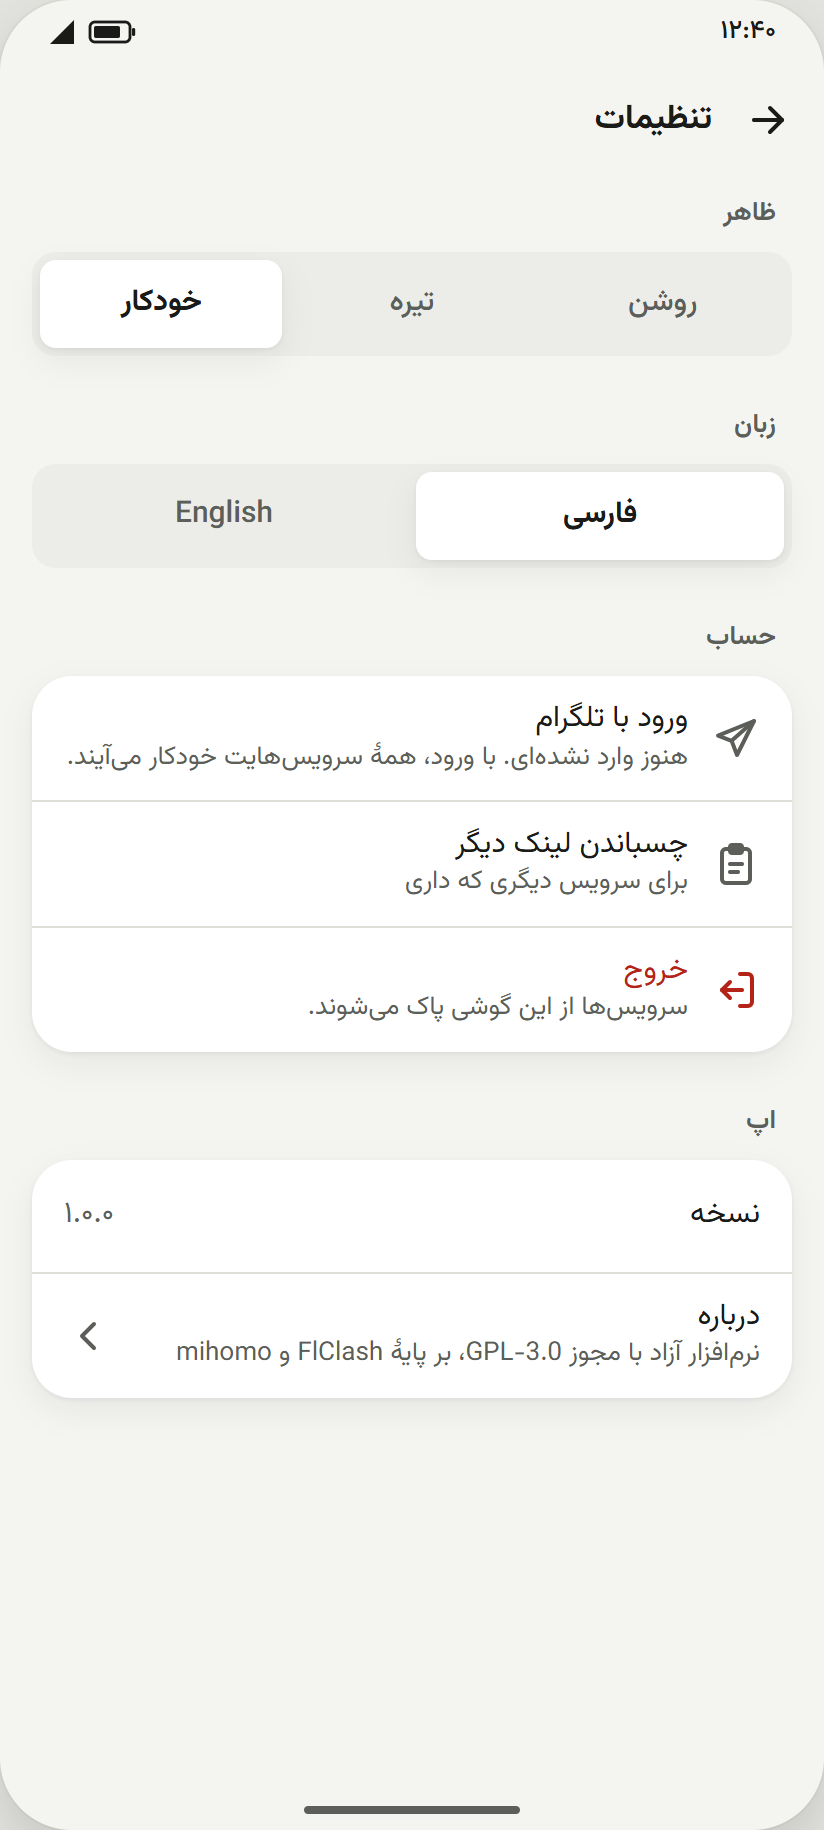
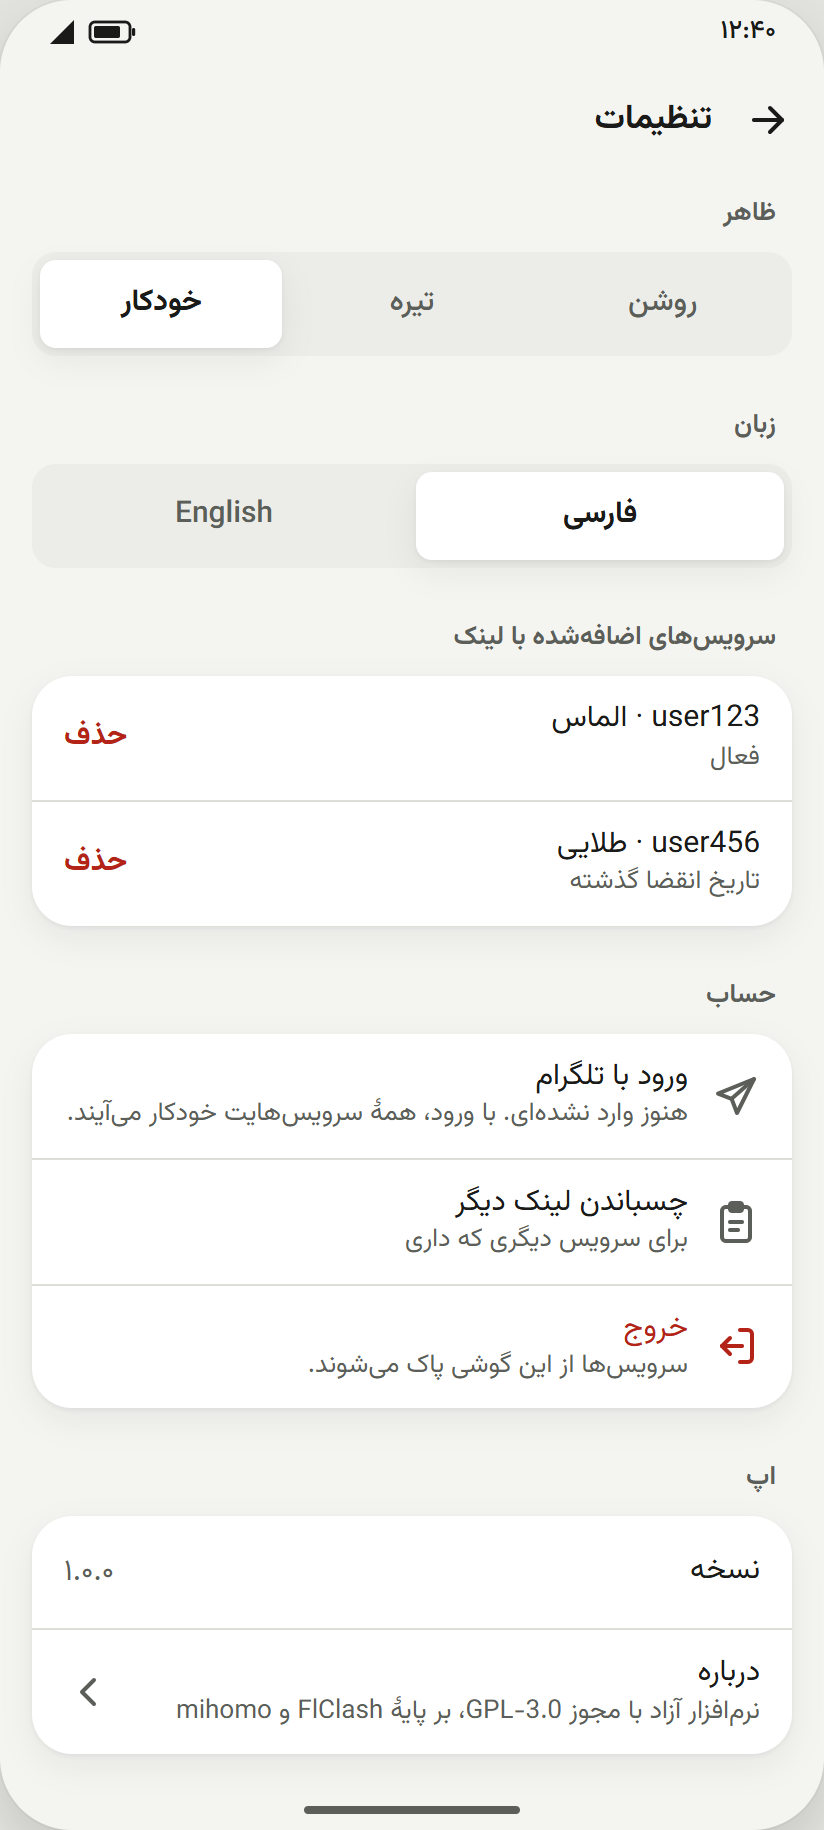
docs(design): let the phone remove one pasted service
A customer who pasted an old, expired or wrong ShikooNet link could only
drop it with "Sign out", which removes every service. Settings now lists
the services whose only source is a pasted link, each with a Remove
button and a confirm dialog. Services the Telegram account also brings
are not listed, since the next sync would bring them back.

Removing the connected service disconnects, removes it and selects the
next service without reconnecting; removing the last one returns to the
no-service home. The strings are in remove_service_*.arb.

diff --git a/design/mockups/phone-states.html b/design/mockups/phone-states.html
@@ -15,7 +15,7 @@
 
 <header class="sheet-head">
   <h1>شیکونت · حالتهای گوشی</h1>
-  <p>اتصال و خطا، سرویسِ تمامشده، فهرست بلند، خروج، ورود و چسباندن لینک، و انواع کارت سرویس.</p>
+  <p>اتصال و خطا، سرویسِ تمامشده، فهرست بلند، خروج و حذف یک سرویس، ورود و چسباندن لینک، و انواع کارت سرویس.</p>
   <nav class="sheet-nav">
     <a href="phone.html">گوشی</a>
     <a href="phone-states.html" aria-current="page">حالتهای گوشی</a>
@@ -354,6 +354,19 @@
           </div>
         </section>
         <section>
+          <h3 class="group-title">سرویسهای اضافهشده با لینک</h3>
+          <div class="card">
+            <div class="row">
+              <span class="t"><span><bdi dir="ltr">user123</bdi> · الماس</span><small>فعال</small></span>
+              <button class="btn btn-text danger" type="button" aria-label="حذف user123 · الماس">حذف</button>
+            </div>
+            <div class="row">
+              <span class="t"><span><bdi dir="ltr">user456</bdi> · طلایی</span><small>تاریخ انقضا گذشته</small></span>
+              <button class="btn btn-text danger" type="button" aria-label="حذف user456 · طلایی">حذف</button>
+            </div>
+          </div>
+        </section>
+        <section>
           <h3 class="group-title">حساب</h3>
           <div class="card">
             <button class="row" type="button">
@@ -387,6 +400,95 @@
     <p class="note"><b>پیشنهاد</b>«چسباندن لینک دیگر» برای کسی است که بیش از یک سرویس دارد و هنوز نمیتواند با تلگرام وارد شود؛ خانه دکمهٔ افزودن ندارد. بعد از ورود تلگرامی این ردیف میرود.</p>
     <p class="note"><b>پیشنهاد</b>بعد از ورود با تلگرام، سرویسهای چسباندهشده میمانند و سرویسهای حساب کنارشان میآیند؛ سرویسِ تکراری یکی میشود. این برای مشتری نماینده مهم است که لینکش شاید به حساب تلگرامش وصل نباشد.</p>
     <p class="note">تلویزیون چسباندن ندارد. فقط تا ساخته شدنِ ورود تلگرامی حالتی شبیه این دارد: قاب «تنظیمات · پیش از ساخته شدنِ ورود تلگرامی» در حالتهای تلویزیون.</p>
+    <p class="note">حذف یک سرویس فقط از بخش «سرویسهای اضافهشده با لینک» است، نه از خودِ کارت. سربرگ کارت جای دکمهٔ سوم ندارد: با «⋯» نامِ همان سرویسهای تمامشده که بیشتر حذف میشوند بریده میشد، و کارت گوشی دیگر با کارت تلویزیون یکی نبود. اینجا افزودن و حذف یکجا هستند.</p>
+    <p class="note">در این بخش فقط سرویسی هست که تنها راه آمدنش به این گوشی، لینکِ چسباندهشده است. سرویسی که حساب تلگرام هم میآوردش (همان نام کاربری) اینجا نیست، چون همگامسازیِ بعدی برش میگرداند. بعد از ورود تلگرامی هم این بخش برای سرویسهایی که فقط لینک دارند میماند. اگر چنین سرویسی نیست، کل بخش نیست.</p>
+    <p class="note">ردیفها به ترتیب کارتهای خانهاند. خط دوم همان برچسب کارت است («فعال»، «تاریخ انقضا گذشته»، …) تا سرویسِ کهنه پیدا شود. فقط «حذف» کار میکند، نه خودِ ردیف، تا اسکرول کردن پنجرهای باز نکند. «حذف» دستکم ۴۸ در ۴۸ لمس میگیرد و خوانندهٔ صفحه آن را با نام سرویس میخواند.</p>
+    <p class="note">وصل بودن چیزی را غیرفعال نمیکند: سرویسِ وصل هم حذف میشود (قاب بعدی). فقط وقتی «چسباندن لینک دیگر» در حال بررسی لینک است، دکمههای «حذف» غیرفعالاند، چون شاید لینکِ تازه مال همان سرویس باشد.</p>
+  </figure>
+
+  <!-- حذف یک سرویس که الان وصل است -->
+  <figure class="shot">
+    <figcaption>تنظیمات · حذف سرویسی که الان وصل است</figcaption>
+    <div class="phone" data-frame="phone-remove-confirm">
+      <div class="statusbar"><span>۱۲:۴۰</span><svg><use href="#sb"/></svg></div>
+      <div class="appbar sub">
+        <button class="icon-btn" type="button" aria-label="بازگشت"><svg class="icon"><use href="#i-back"/></svg></button>
+        <h2>تنظیمات</h2>
+      </div>
+      <div class="settings">
+        <section>
+          <h3 class="group-title">ظاهر</h3>
+          <div class="segmented" role="radiogroup">
+            <button type="button" role="radio" aria-checked="false">روشن</button>
+            <button type="button" role="radio" aria-checked="false">تیره</button>
+            <button type="button" role="radio" aria-checked="true">خودکار</button>
+          </div>
+        </section>
+        <section>
+          <h3 class="group-title">زبان</h3>
+          <div class="segmented" role="radiogroup">
+            <button type="button" role="radio" aria-checked="true">فارسی</button>
+            <button type="button" role="radio" aria-checked="false" lang="en">English</button>
+          </div>
+        </section>
+        <section>
+          <h3 class="group-title">سرویسهای اضافهشده با لینک</h3>
+          <div class="card">
+            <div class="row">
+              <span class="t"><span><bdi dir="ltr">user123</bdi> · الماس</span><small>فعال</small></span>
+              <button class="btn btn-text danger" type="button" aria-label="حذف user123 · الماس">حذف</button>
+            </div>
+            <div class="row">
+              <span class="t"><span><bdi dir="ltr">user456</bdi> · طلایی</span><small>تاریخ انقضا گذشته</small></span>
+              <button class="btn btn-text danger" type="button" aria-label="حذف user456 · طلایی">حذف</button>
+            </div>
+          </div>
+        </section>
+        <section>
+          <h3 class="group-title">حساب</h3>
+          <div class="card">
+            <button class="row" type="button">
+              <svg class="icon"><use href="#i-plane"/></svg>
+              <span class="t"><span>ورود با تلگرام</span><small>هنوز وارد نشدهای. با ورود، همهٔ سرویسهایت خودکار میآیند.</small></span>
+            </button>
+            <button class="row" type="button">
+              <svg class="icon"><use href="#i-paste"/></svg>
+              <span class="t"><span>چسباندن لینک دیگر</span><small>برای سرویس دیگری که داری</small></span>
+            </button>
+            <button class="row danger" type="button">
+              <svg class="icon"><use href="#i-logout"/></svg>
+              <span class="t"><span>خروج</span><small>سرویسها از این گوشی پاک میشوند.</small></span>
+            </button>
+          </div>
+        </section>
+        <section>
+          <h3 class="group-title">اپ</h3>
+          <div class="card">
+            <div class="row"><span class="t"><span>نسخه</span></span><span class="value">۱.۰.۰</span></div>
+            <button class="row" type="button">
+              <span class="t"><span>درباره</span><small>نرمافزار آزاد با مجوز <bdi>GPL-3.0</bdi>، بر پایهٔ <bdi>FlClash</bdi> و <bdi>mihomo</bdi></small></span>
+              <svg class="icon"><use href="#i-chevron-fwd"/></svg>
+            </button>
+          </div>
+        </section>
+      </div>
+      <div class="scrim">
+        <div class="dialog" role="alertdialog" aria-labelledby="remove-title">
+          <h2 id="remove-title">حذف «<bdi dir="ltr">user123</bdi> · الماس»؟</h2>
+          <p>اتصال قطع میشود و این سرویس از این گوشی پاک میشود. خودِ سرویس سر جایش است و با همان لینک برمیگردد.</p>
+          <div class="dialog-actions">
+            <button class="btn btn-text" type="button">بمان</button>
+            <button class="btn btn-danger" type="button">حذف</button>
+          </div>
+        </div>
+      </div>
+      <div class="gesture"></div>
+    </div>
+    <p class="note">پنجره با فوکوس روی «بمان» باز میشود. ترتیب خواندن: عنوان، متن، «بمان»، «حذف». دکمهٔ برگشت و زدن بیرون از پنجره یعنی «بمان». «حذف» قرمز و در انتهاست، مثل «خروج».</p>
+    <p class="note">«اتصال قطع میشود و» فقط وقتی هست که همین سرویس انتخابشده و وصل یا در حال اتصال است. در بقیهٔ حالتها متن این است: «این سرویس از این گوشی پاک میشود. خودِ سرویس سر جایش است و با همان لینک برمیگردد.»</p>
+    <p class="note">بعد از «حذف»، به همین ترتیب: اتصال قطع میشود (یا تلاشِ در حال اتصال لغو میشود)، سرویس پاک میشود، و سرویسِ بعدی انتخاب میشود: کارتِ زیرینش، یا اگر کارت آخر بود، کارتِ بالایی. اپ خودش دوباره وصل نمیشود، چون وصل شدن با سرویس دیگر حجمِ آن را خرج میکند بیآنکه مشتری خواسته باشد.</p>
+    <p class="note">برای همین خانه پیام تازهای نمیخواهد: این پنجره قطع شدن را گفته، و خانه دکمهٔ «اتصال» و کارتِ بازِ سرویسِ بعدی را نشان میدهد، مثل قاب «خانه · قطع». اگر هیچ سرویسی روی گوشی نماند، تنظیمات بسته میشود و خانه کارت «سرویسی روی این گوشی نیست» را نشان میدهد.</p>
+    <p class="note">اگر سرویس دیگری مانده، تنظیمات باز میماند و فقط ردیفِ حذفشده میرود. خوانندهٔ صفحه «… حذف شد» را میگوید و فوکوس به عنوان همین بخش میرود، نه به «حذف» بعدی. بهروزرسانیِ نیمهکارهٔ همان سرویس دور ریخته میشود.</p>
   </figure>
 
   <!-- برگشت از تلگرام بیتأیید -->

diff --git a/design/mockups/mockup.css b/design/mockups/mockup.css
@@ -6,7 +6,7 @@
  *
  * فهرست اجزا و حالتها (کلاسها):
  *   ۱. نشان ............ .brand .mark
- *   ۲. دکمه ............ .btn + .btn-primary | .btn-outline | .btn-telegram | .btn-danger | .btn-text ؛ .btn-link ؛ .icon-btn
+ *   ۲. دکمه ............ .btn + .btn-primary | .btn-outline | .btn-telegram | .btn-danger | .btn-text (+ .danger) ؛ .btn-link ؛ .icon-btn
  *   ۳. برچسب وضعیت ..... .chip + .chip-positive | .chip-danger | .chip-muted
  *   ۴. کارت سرویس ...... .card.svc ؛ باز (با .usage و .servers) یا جمعشده (با .svc-summary) ؛ .with-proto
  *   ۵. حجم و اعتبار .... .usage .usage-row .bar + .is-warning | .is-full ؛ نامحدود = بینوار
@@ -76,6 +76,7 @@ ul { list-style: none; }
 .btn-telegram { background: var(--color-telegram); color: var(--color-on-telegram); font-size: var(--text-button-lg); }
 .btn-danger   { background: var(--color-danger); color: var(--color-on-danger); }
 .btn-text     { padding-inline: var(--space-3); }
+.btn-text.danger { color: var(--color-danger); }
 .btn-link {
   align-self: center; min-block-size: var(--size-touch); padding-inline: var(--space-3);
   font-size: var(--text-body-sm); font-weight: var(--font-weight-bold); text-decoration: underline; text-underline-offset: 0.3em;
@@ -227,6 +228,8 @@ ul { list-style: none; }
 .row .t { flex: 1; display: flex; flex-direction: column; line-height: var(--leading-tight); }
 .row small { font-size: var(--text-body-sm); color: var(--color-text-muted); line-height: var(--leading-tight); }
 .row .value { color: var(--color-text-muted); }
+/* دکمهٔ متنیِ انتهای ردیف (حذف سرویس): لمس ۴۸، ولی ردیف را بلند نمیکند و متنش با لبهٔ بقیهٔ ردیفها همتراز است */
+.row > .btn-text { --size-button: var(--size-touch); margin-block: calc(var(--space-2) * -1); margin-inline-end: calc(var(--space-3) * -1); }
 .row .icon { color: var(--color-text-muted); }
 .row.danger .t > span, .row.danger .icon { color: var(--color-danger); }
 .radio {
